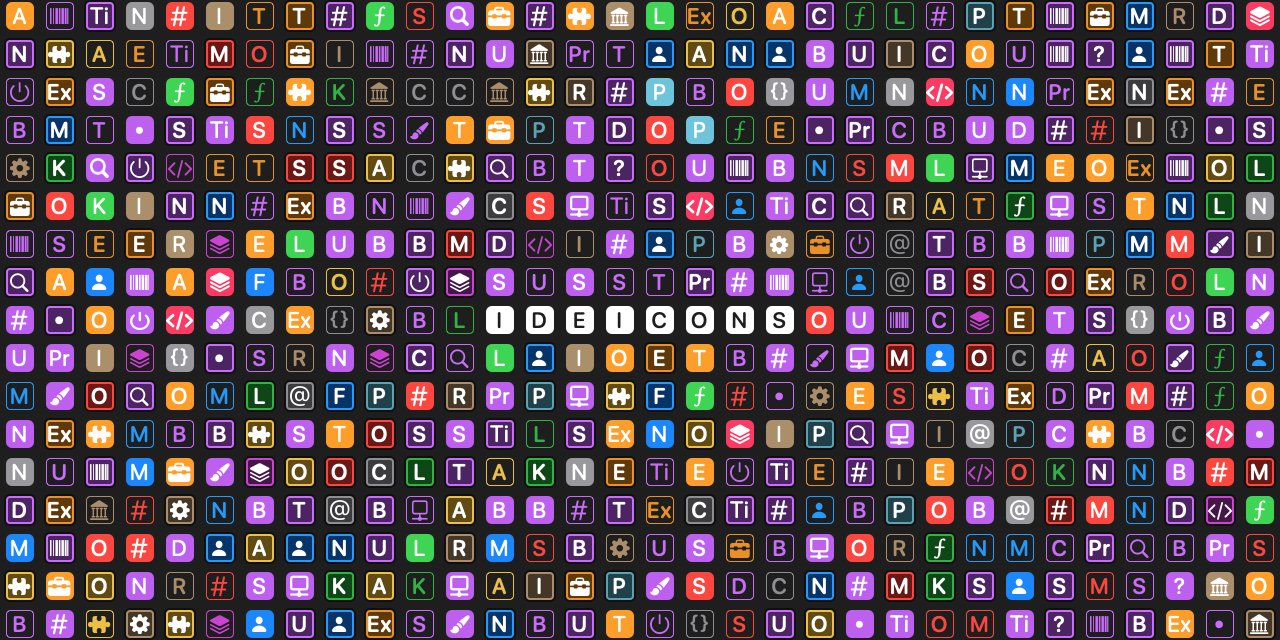
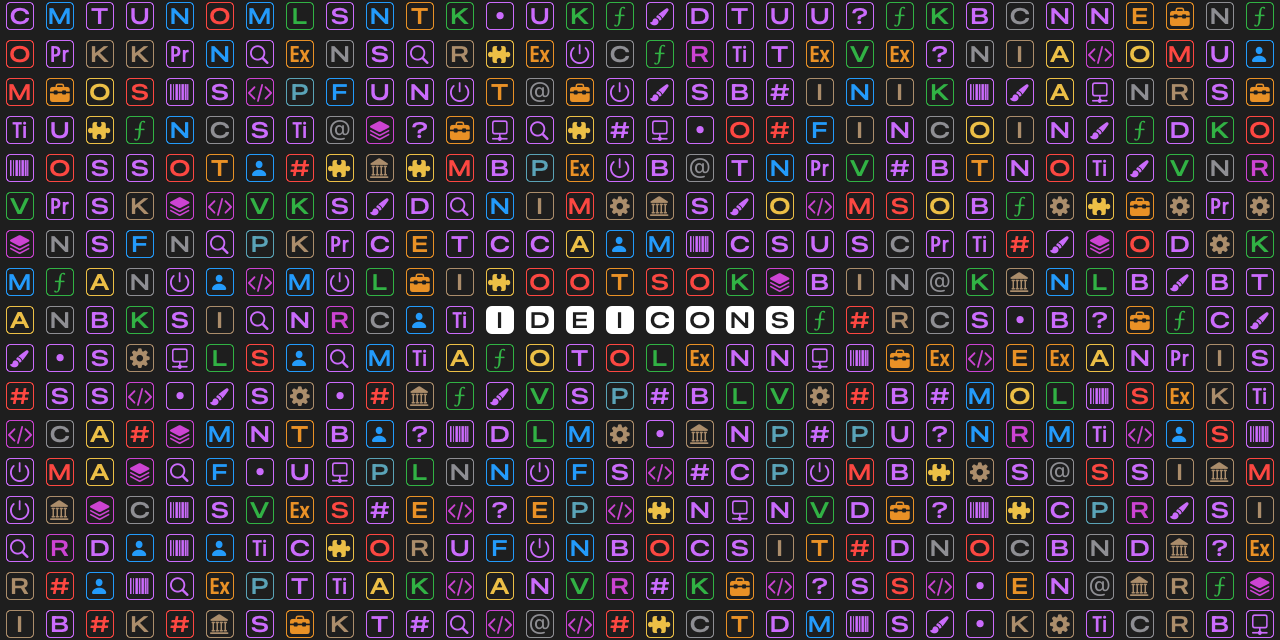
Use expanded and condensed fonts for bordered and outlined styles

diff --git a/Sources/IDEIcons/IDEIcon+Image.swift b/Sources/IDEIcons/IDEIcon+Image.swift
@@ -180,21 +180,40 @@ public extension IDEIcon {
   }
 
   func drawInterior(context: CGContext, bounds: CGRect) {
-    // let deviceBounds = context.convertToDeviceSpace(bounds)
-    // let scale = deviceBounds.size.height / bounds.size.height
+//    let deviceBounds = context.convertToDeviceSpace(bounds)
+//    let scale = deviceBounds.size.height / bounds.size.height
 
-    var font = PlatformFont.systemFont(ofSize: (fontSize + fontSizeAdjustment), weight: fontWeight)
-#if os(macOS)
-    font.fontDescriptor
-      .withSymbolicTraits(.expanded)
-      .withDesign(.rounded)
-      .map { PlatformFont(descriptor: $0, size: font.pointSize).map { font = $0 } }
-#else
-    font.fontDescriptor
-      .withSymbolicTraits(.expanded)
-      .withDesign(.rounded)
-      .map { font = PlatformFont(descriptor: $0, size: font.pointSize) }
-#endif
+    let font: PlatformFont
+    if case .text(let string) = content, style != .simple, style != .simpleHighlighted {
+      if string.count == 1 {
+        if string == "⨍" {
+          // (╯°□°)╯︵ ┻━┻
+          font = PlatformFont(name: "SFPro-ExpandedBlack", size: fontSize + fontSizeAdjustment)!
+        } else {
+          font = PlatformFont(name: "SFPro-ExpandedMedium", size: fontSize + fontSizeAdjustment)!
+        }
+      } else {
+        font = PlatformFont(name: "SFPro-CondensedMedium", size: fontSize + fontSizeAdjustment)!
+      }
+    } else {
+      font = PlatformFont.systemFont(ofSize: fontSize + fontSizeAdjustment, weight: fontWeight)
+    }
+
+    //var font = PlatformFont.systemFont(ofSize: fontSize + fontSizeAdjustment, weight: fontWeight)
+//#if os(macOS)
+//    Optional(font.fontDescriptor
+//      .withSymbolicTraits([.expanded, .bold])
+//    )
+//      //.withDesign(.rounded)
+//      .map { PlatformFont(descriptor: $0, size: font.pointSize).map { font = $0 } }
+//#else
+//    font.fontDescriptor
+//      .withSymbolicTraits(.expanded)
+//      .withDesign(.rounded)
+//      .map { font = PlatformFont(descriptor: $0, size: font.pointSize) }
+//#endif
+
+    //print(font)
 
 //    guard let descriptor = systemFont.fontDescriptor.withDesign(design) else { return systemFont }
 //    return NSFont(descriptor: descriptor, size: systemFont.pointSize) ?? systemFont
@@ -215,6 +234,7 @@ public extension IDEIcon {
 
     let symbolFrame = bounds
       .insetBy(borderWidth + outlineWidth)
+      //.offsetBy(dx: 0.5 / scale, dy: 0)
       //// + style == .outline ? 0.5 : 0 ?
       //.offsetBy(dx: 0, dy: yOffset + yOffsetAdjustment) // + style == .outline ? 0.5 : 0 ?
 
@@ -236,7 +256,13 @@ public extension IDEIcon {
 
       //let dy = (symbolFrame.height - attributedString.size().height) / 2
       //let textFrame = symbolFrame.integral.offsetBy(dx: 0, dy: yOffsetAdjustment - dy)
-      let textFrame = attributedString.size().centered(in: symbolFrame).offsetBy(dx: 0, dy: yOffsetAdjustment)
+      var textFrame = attributedString.size().centered(in: symbolFrame).integral.offsetBy(dx: 0, dy: yOffsetAdjustment)
+
+      //if string.count == 1 {
+      if string != "•", style != .simple, style != .simpleHighlighted {
+        textFrame = textFrame.offsetBy(dx: 0, dy: -1)
+      }
+      //}
 
       // NSDottedFrameRect(textFrame)
       //UIRectFrame(textFrame)

diff --git a/Example/IDEIcons+Screenshots.swift b/Example/IDEIcons+Screenshots.swift
@@ -9,7 +9,7 @@ class IDEIcons_Screenshots: PreviewProvider {
     IconGrid(horizontalSpacing: 3, verticalSpacing: 2, horizontalPadding: 4, verticalPadding: 5)//, iconSize: IDEIconSize.large)
       .padding()
       .frame(width: 304, height: 200)
-      .background()
+      //.background()
       .previewLayout(.sizeThatFits)
       .previewDisplayName("README Banner")
       .screenshot("IDEIcons")
@@ -68,6 +68,7 @@ class IDEIcons_Screenshots: PreviewProvider {
   struct IconGrid: View {
     var wordmark = "IDEIcons"
     var wordmarkStyle = IDEIconStyle.default
+    var wordmarkColor = IDEIconColor.purple
     var largeWordmark = false
 
     var horizontalSpacing = 4.0
@@ -82,7 +83,7 @@ class IDEIcons_Screenshots: PreviewProvider {
     var iconSize = IDEIconSize.regular
 
     //@State var rng = Rand48RandomNumberGenerator(seed: 0x1)
-    @State var rng = GKMersenneTwisterRandomSource(seed: 0x1)
+    @State var rng = GKMersenneTwisterRandomSource(seed: 0x100)
     //@State var rng = Xoroshiro256StarStarRandomNumberGenerator(seed: (1, 0, 2, 4))
     @Environment(\.colorScheme) var colorScheme
 
@@ -101,7 +102,7 @@ class IDEIcons_Screenshots: PreviewProvider {
             .gridCellColumns(horizontalPadding)
 
             ForEach(Array(wordmark.uppercased().enumerated()), id: \.offset) { (_, c) in
-              IconView(IDEIcon("\(c)", color: .monochrome, style: wordmarkStyle, size: 32))
+              IconView(IDEIcon("\(c)", color: wordmarkColor, style: wordmarkStyle, size: 32))
                   .gridCellColumns(2)
             }
 
@@ -114,7 +115,7 @@ class IDEIcons_Screenshots: PreviewProvider {
             GridRow { ForEach(0..<horizontalPadding, id: \.self) { _ in example } }
 
             ForEach(Array(wordmark.uppercased().enumerated()), id: \.offset) { (_, c) in
-              IconView(IDEIcon("\(c)", color: .monochrome, style: wordmarkStyle, size: iconSize))
+              IconView(IDEIcon("\(c)", color: wordmarkColor, style: wordmarkStyle, size: iconSize))
             }
 
             GridRow { ForEach(0..<horizontalPadding, id: \.self) { _ in example } }
@@ -158,9 +159,13 @@ class IDEIcons_Screenshots: PreviewProvider {
       IDEIcon("Pr", color: .purple),
       IDEIcon("M", color: .blue),
       IDEIcon("P", color: .teal),
+      IDEIcon("R", color: .pink),
+      IDEIcon("V", color: .green),
+      IDEIcon("K", color: .brown),
+      
       //IDEIcon("@", color: .gray),
       IDEIcon(systemImage: "at", color: .gray),
-      IDEIcon("{ }", color: .gray),
+      //IDEIcon("{ }", color: .gray), // FIXME: looks bad w/ expanded/condensed
       //IDEIcon(systemImage: "list.bullet", color: .monochrome),
 
       IDEIcon("N", color: .purple),
@@ -209,10 +214,12 @@ class IDEIcons_Screenshots: PreviewProvider {
       .flatMap {
         var o = $0
         o.style = .outline
-        var s = $0
-        s.style = .simple
+        //var s = $0
+        //s.style = .simple
         //return [s]
-        return [s, $0, o]
+        return [o]
+        //return [$0, o]
+        //return [s, $0, o]
       }
   }
 }

diff --git a/Sources/IDEIcons/IDEIcon+Adjustments.swift b/Sources/IDEIcons/IDEIcon+Adjustments.swift
@@ -23,8 +23,8 @@ extension IDEIcon {
       switch string {
       case "@": return 1
       case "{}", "{ }": return -1
-      case "#": return 2.5
-      case "Ti": return 0.5
+      //case "#": return 2.5
+      //case "Ti": return 0.5
       case "⨍": return 0
       case "•": return 2.5
       default: break
